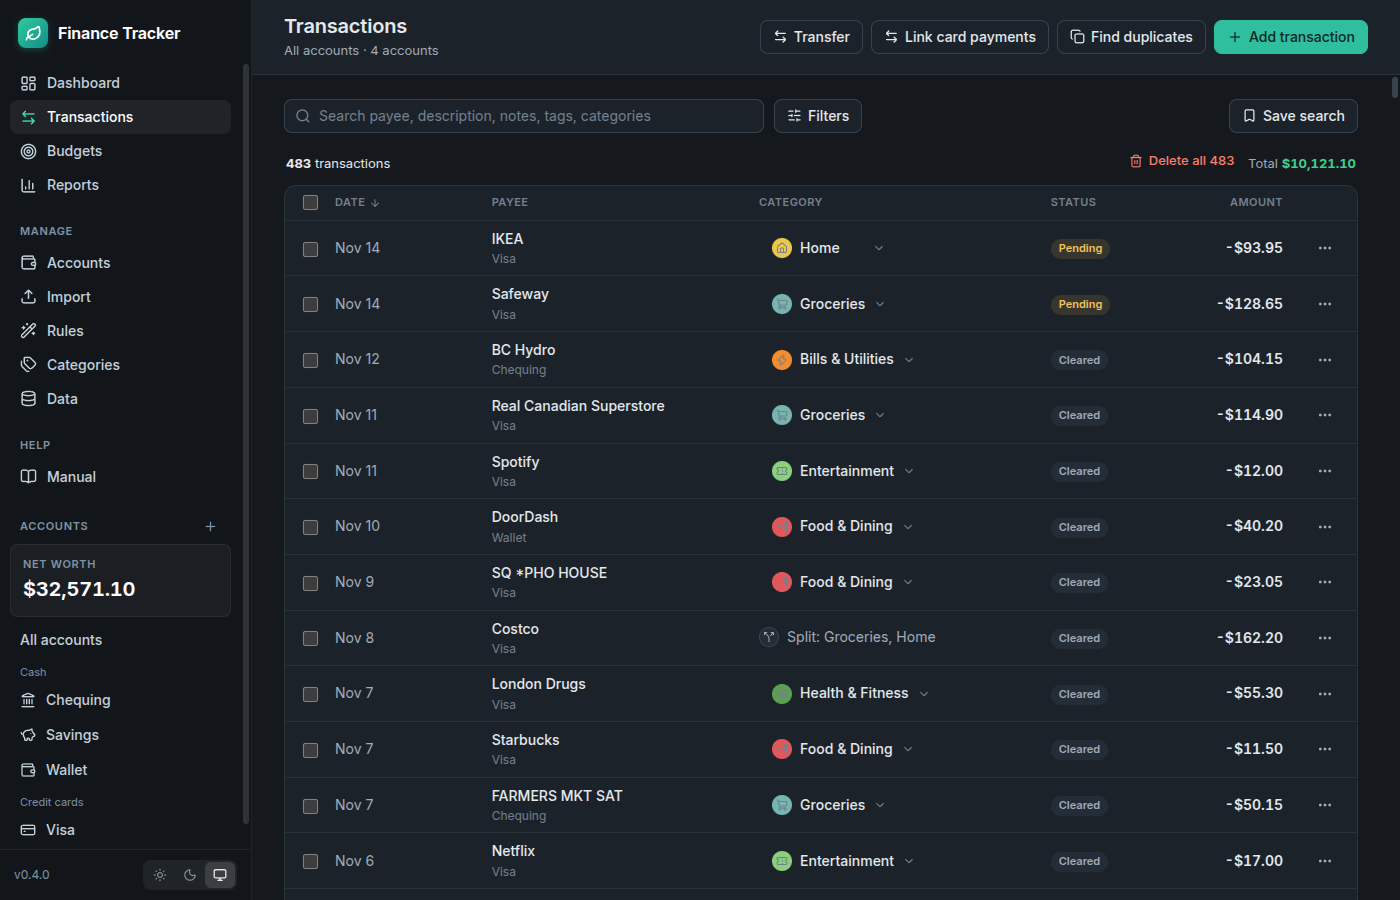
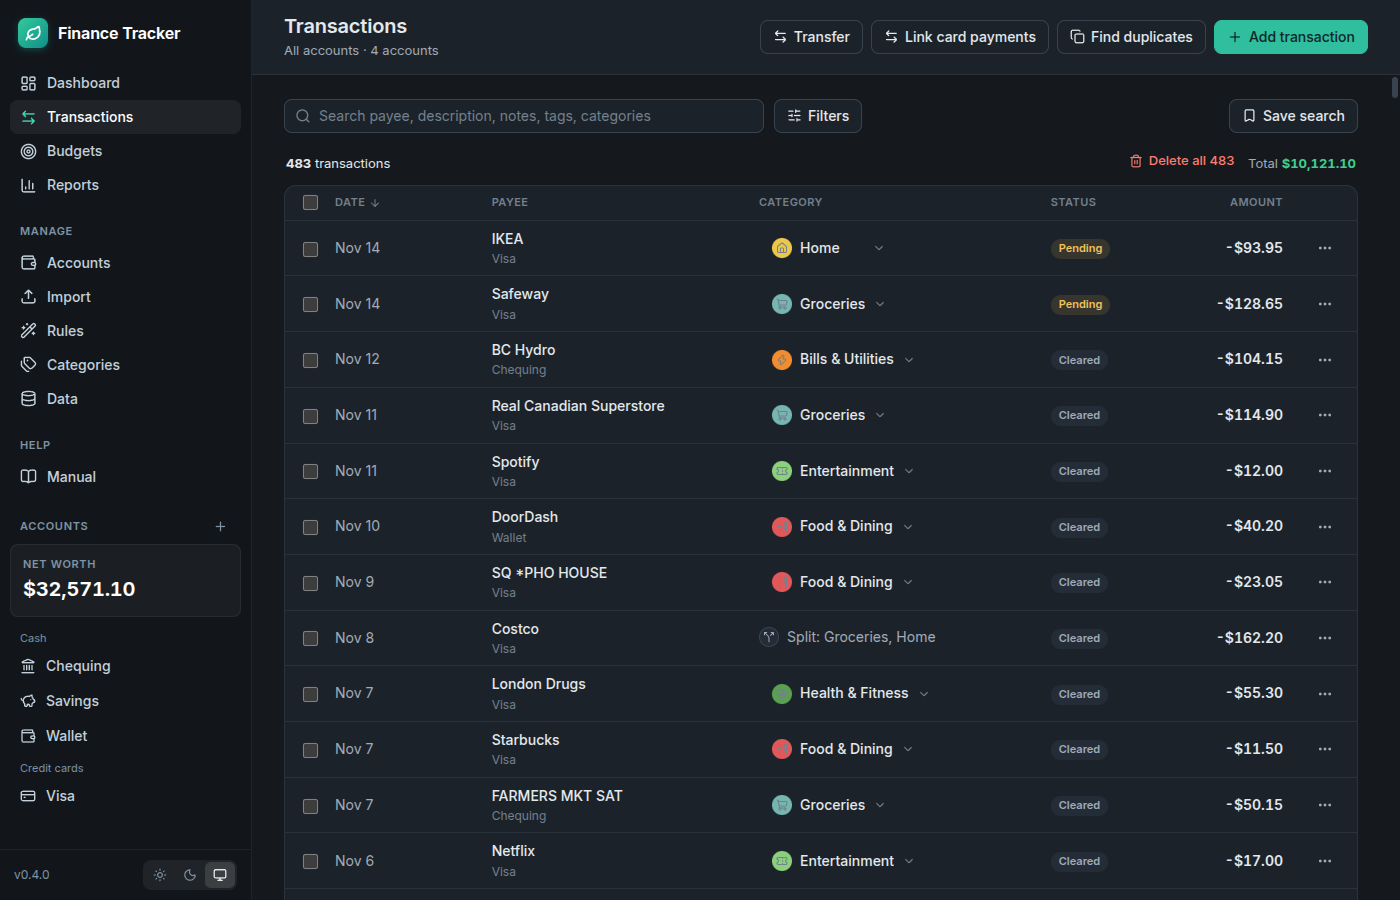
feat: Edit account on each Accounts row, remove sidebar All accounts
Claude-Session: https://claude.ai/code/session_015k7HiAdTpjfhzJFgrdU148

Changed region(s): [[0.1536, 0.0933, 0.1843, 0.9022], [0.0, 0.6844, 0.0921, 0.9333]]

diff --git a/src/renderer/src/App.tsx b/src/renderer/src/App.tsx
@@ -120,6 +120,7 @@ export function App() {
 
 function Shell() {
   const [accountId, setAccountId] = useState<number | null>(null)
+  const [editId, setEditId] = useState<number | null>(null)
   const [info, setInfo] = useState<{ version: string; schemaVersion: number } | null>(null)
   const [view, setView] = useState<View>('dashboard')
   const [preset, setPreset] = useState<{
@@ -170,6 +171,10 @@ function Shell() {
       ? undefined
       : (ledger.accounts.find((a) => a.id === accountId) ??
         archived.find((a) => a.id === accountId))
+  const editTarget =
+    editId === null
+      ? undefined
+      : (ledger.accounts.find((a) => a.id === editId) ?? archived.find((a) => a.id === editId))
   const total = ledger.accounts.reduce((sum, a) => sum + a.balance, 0)
 
   const navView: View = view === 'history' ? 'import' : view
@@ -258,21 +263,6 @@ function Shell() {
                     <span>Net worth</span>
                     <strong className={total < 0 ? 'neg' : ''}>{formatCents(total)}</strong>
                   </div>
-                  <ul>
-                    <li>
-                      <button
-                        type="button"
-                        className="nav-item"
-                        aria-current={view === 'accounts'}
-                        onClick={() => {
-                          setAccountId(null)
-                          go('accounts')
-                        }}
-                      >
-                        <span className="grow">All accounts</span>
-                      </button>
-                    </li>
-                  </ul>
                   {ACCOUNT_GROUPS.map((g) => {
                     const list = ledger.accounts.filter((a) => g.types.includes(a.type))
                     if (list.length === 0) return null
@@ -308,7 +298,13 @@ function Shell() {
                   {view === 'ledger' && (
                     <>
                       {selected && (
-                        <button type="button" onClick={() => setDialog('editAccount')}>
+                        <button
+                          type="button"
+                          onClick={() => {
+                            setEditId(accountId)
+                            setDialog('editAccount')
+                          }}
+                        >
                           <Pencil size={15} />
                           Edit account
                         </button>
@@ -387,7 +383,15 @@ function Shell() {
                   />
                 )}
                 {view === 'accounts' && (
-                  <Accounts accounts={ledger.accounts} archived={archived} onOpen={pickAccount} />
+                  <Accounts
+                    accounts={ledger.accounts}
+                    archived={archived}
+                    onOpen={pickAccount}
+                    onEdit={(id) => {
+                      setEditId(id)
+                      setDialog('editAccount')
+                    }}
+                  />
                 )}
                 {view === 'budgets' && <Budgets run={ledger.run} version={ledger.version} />}
                 {view === 'import' && (
@@ -447,18 +451,18 @@ function Shell() {
             <AccountForm run={ledger.run} onDone={() => setDialog(null)} />
           </Dialog>
           <Dialog
-            open={dialog === 'editAccount' && selected !== undefined}
+            open={dialog === 'editAccount' && editTarget !== undefined}
             onOpenChange={(o) => setDialog(o ? 'editAccount' : null)}
-            title={selected ? `Edit ${selected.name}` : 'Edit account'}
+            title={editTarget ? `Edit ${editTarget.name}` : 'Edit account'}
           >
-            {selected && (
+            {editTarget && (
               <AccountEditor
-                account={selected}
+                account={editTarget}
                 run={ledger.run}
                 onDone={() => setDialog(null)}
                 onDeleted={() => {
                   setDialog(null)
-                  setAccountId(null)
+                  if (accountId === editId) setAccountId(null)
                 }}
               />
             )}

diff --git a/src/renderer/src/Accounts.tsx b/src/renderer/src/Accounts.tsx
@@ -1,3 +1,4 @@
+import { Pencil } from 'lucide-react'
 import type { AccountWithBalance } from '../../core/ledger/accounts'
 import { formatCents } from '../../core/money'
 import {
@@ -12,10 +13,11 @@ interface Props {
   accounts: AccountWithBalance[]
   archived: AccountWithBalance[]
   onOpen: (accountId: number) => void
+  onEdit: (accountId: number) => void
 }
 
 /** Every account with its type and balance, grouped like the sidebar; a row opens its transactions. */
-export function Accounts({ accounts, archived, onOpen }: Props) {
+export function Accounts({ accounts, archived, onOpen, onEdit }: Props) {
   const assets = accounts.filter((a) => !isLiability(a.type)).reduce((s, a) => s + a.balance, 0)
   const owing = accounts
     .filter((a) => isLiability(a.type) && a.balance < 0)
@@ -39,9 +41,22 @@ export function Accounts({ accounts, archived, onOpen }: Props) {
               {a.name}
             </button>
           </td>
-          <td className="subtle">{accountTypeLabel(a.type)}</td>
+          <td className="subtle" style={{ width: 180 }}>
+            {accountTypeLabel(a.type)}
+          </td>
           <td className={a.balance < 0 && !isLiability(a.type) ? 'num neg' : 'num'}>
             {balanceText(a.type, a.balance)}
+          </td>
+          <td className="actions" style={{ width: 150, textAlign: 'right' }}>
+            <button
+              type="button"
+              className="small"
+              aria-label={`Edit account ${a.name}`}
+              onClick={() => onEdit(a.id)}
+            >
+              <Pencil size={14} />
+              Edit account
+            </button>
           </td>
         </tr>
       )

diff --git a/src/renderer/src/manualContent.ts b/src/renderer/src/manualContent.ts
@@ -124,7 +124,7 @@ export const MANUAL: ManualSection[] = [
     id: 'accounts',
     title: 'Accounts',
     blocks: [
-      'The Accounts tab (also opened by All accounts in the sidebar) lists every account with its type and balance, grouped as Cash, Credit cards, Loans and Other, with assets, owing and net worth on top. Cards and loans read Owing, and the owing amount is already included in net worth. Click an account to see its transactions. The Transactions tab always shows every account.',
+      'The Accounts tab lists every account with its type and balance, grouped as Cash, Credit cards, Loans and Other, with assets, owing and net worth on top. Cards and loans read Owing, and the owing amount is already included in net worth. Click an account to see its transactions, or use Edit account on its row to rename, archive or delete it. The Transactions tab always shows every account.',
     ],
   },
   {

diff --git a/docs/handoffs/2026-11-14_accounts-edit.md b/docs/handoffs/2026-11-14_accounts-edit.md
@@ -1,0 +1,23 @@
+# Session Handoff: 2026-11-14 (Accounts page edit buttons)
+
+## Summary
+
+Follow-up to the Accounts page (PR #38): the sidebar's "All accounts" duplicated it.
+
+## Completed
+
+- Removed "All accounts" from the sidebar; Accounts (under Manage) is the one entry point.
+- Each Accounts row has an Edit account button opening the same dialog (rename, archive, delete).
+  The dialog now keys off its own `editId` instead of the selected account, so it works from the
+  Accounts page as well as from an account's header button.
+- Manual, changelog, design note 15, `accounts-page.mjs` and README screenshots updated.
+
+## Current state
+
+`npm run check` passes. Clicked through headless (edit and rename from a row, header edit still
+works), no page errors. Still v0.4.0; no release cut on purpose.
+
+## Next actions
+
+1. Owner reviews. Possible follow-up: an Add account button on the Accounts page.
+2. Remaining items from the v0.4.0 handoff (real-UI checks, budget rollover decision).

diff --git a/docs/design/15_accounts_page.md b/docs/design/15_accounts_page.md
@@ -2,9 +2,10 @@
 
 The sidebar shows account names only (feedback 2026-11-14), so balances moved to an Accounts tab.
 
-- Nav item "Accounts" under Manage; the sidebar's "All accounts" opens it too.
+- Nav item "Accounts" under Manage. The sidebar has no separate "All accounts" entry (it duplicated this page).
 - Summary card: assets, owing on cards and loans, net worth (owing is already inside net worth).
 - One card per sidebar group (Cash, Credit cards, Loans, Other) listing name, type and balance
   text (`balanceText`, so liabilities read Owing). Archived accounts get their own card.
 - Clicking an account opens its transactions. The Transactions tab always shows all accounts.
-- Read-only: add, edit, archive and delete stay in the sidebar and Edit account dialog.
+- Each row has an Edit account button (the same dialog as the header button on an account's page).
+  Adding an account stays on the sidebar "+".

diff --git a/CHANGELOG.md b/CHANGELOG.md
@@ -7,8 +7,8 @@ All notable changes to this project are documented here. The format is based on
 
 ### Added
 
-- Accounts tab: every account with type and balance, plus assets, owing and net worth; opened by
-  All accounts in the sidebar.
+- Accounts tab: every account with type and balance, plus assets, owing and net worth, with
+  an Edit account button on each row. The sidebar's "All accounts" entry is removed.
 - Find duplicates: "Keep first, delete rest" per group and "Keep one of each" for all groups, with
   one Undo; a group always keeps one row.
 - Find duplicates can match across accounts (on by default).
